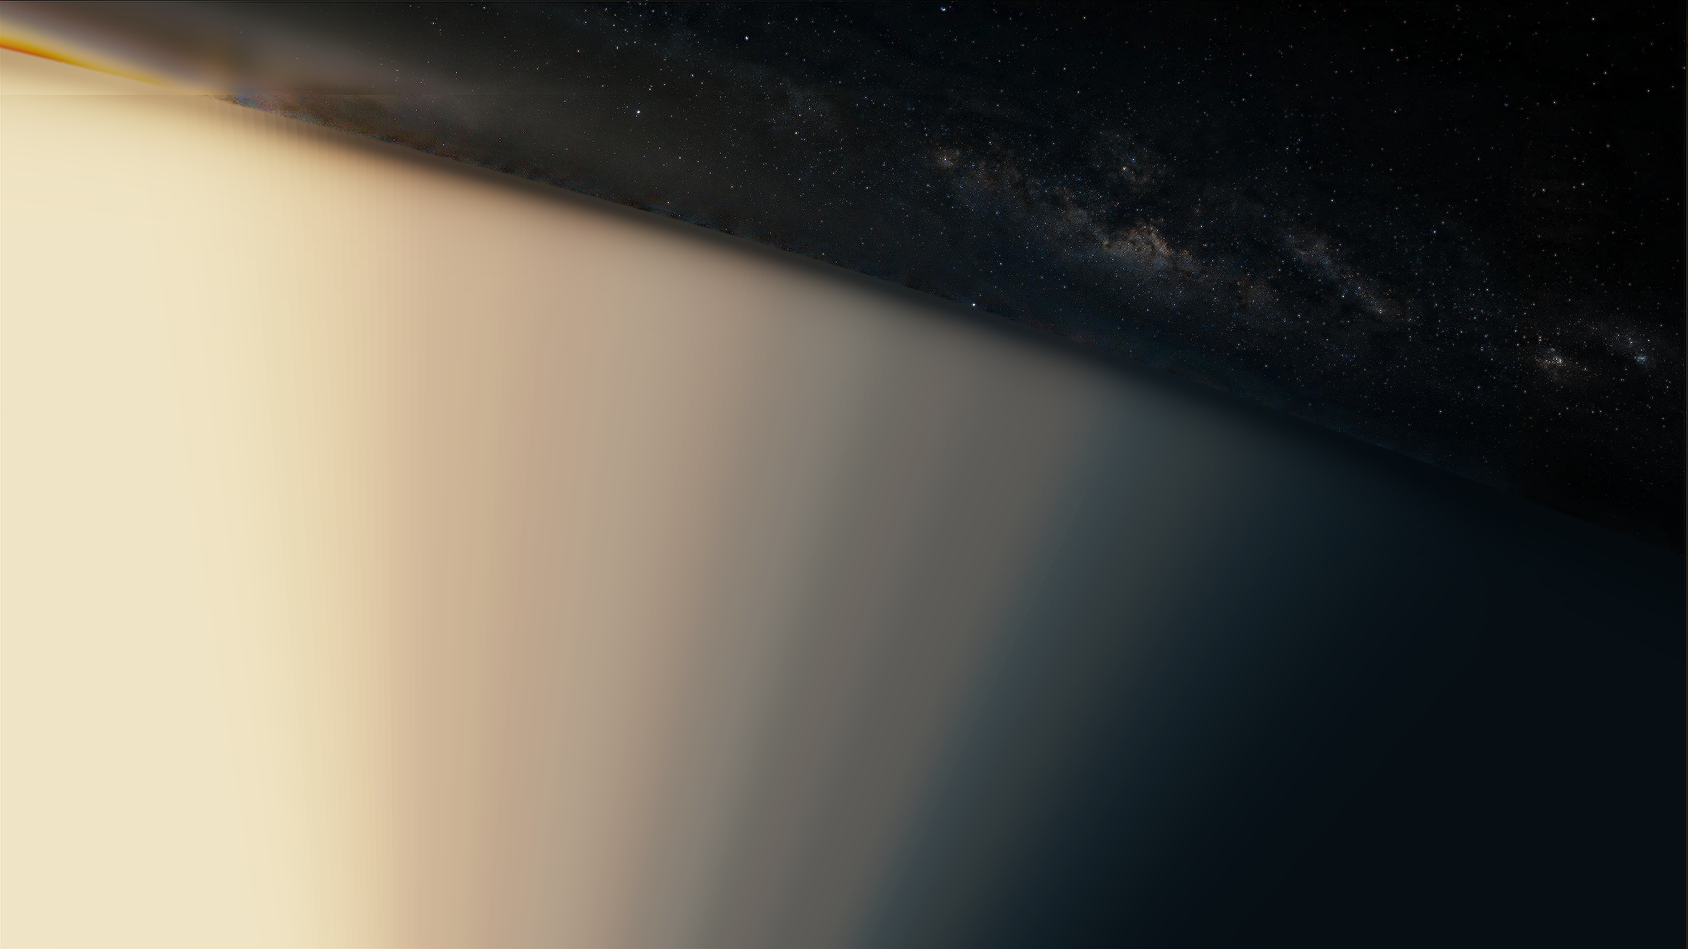
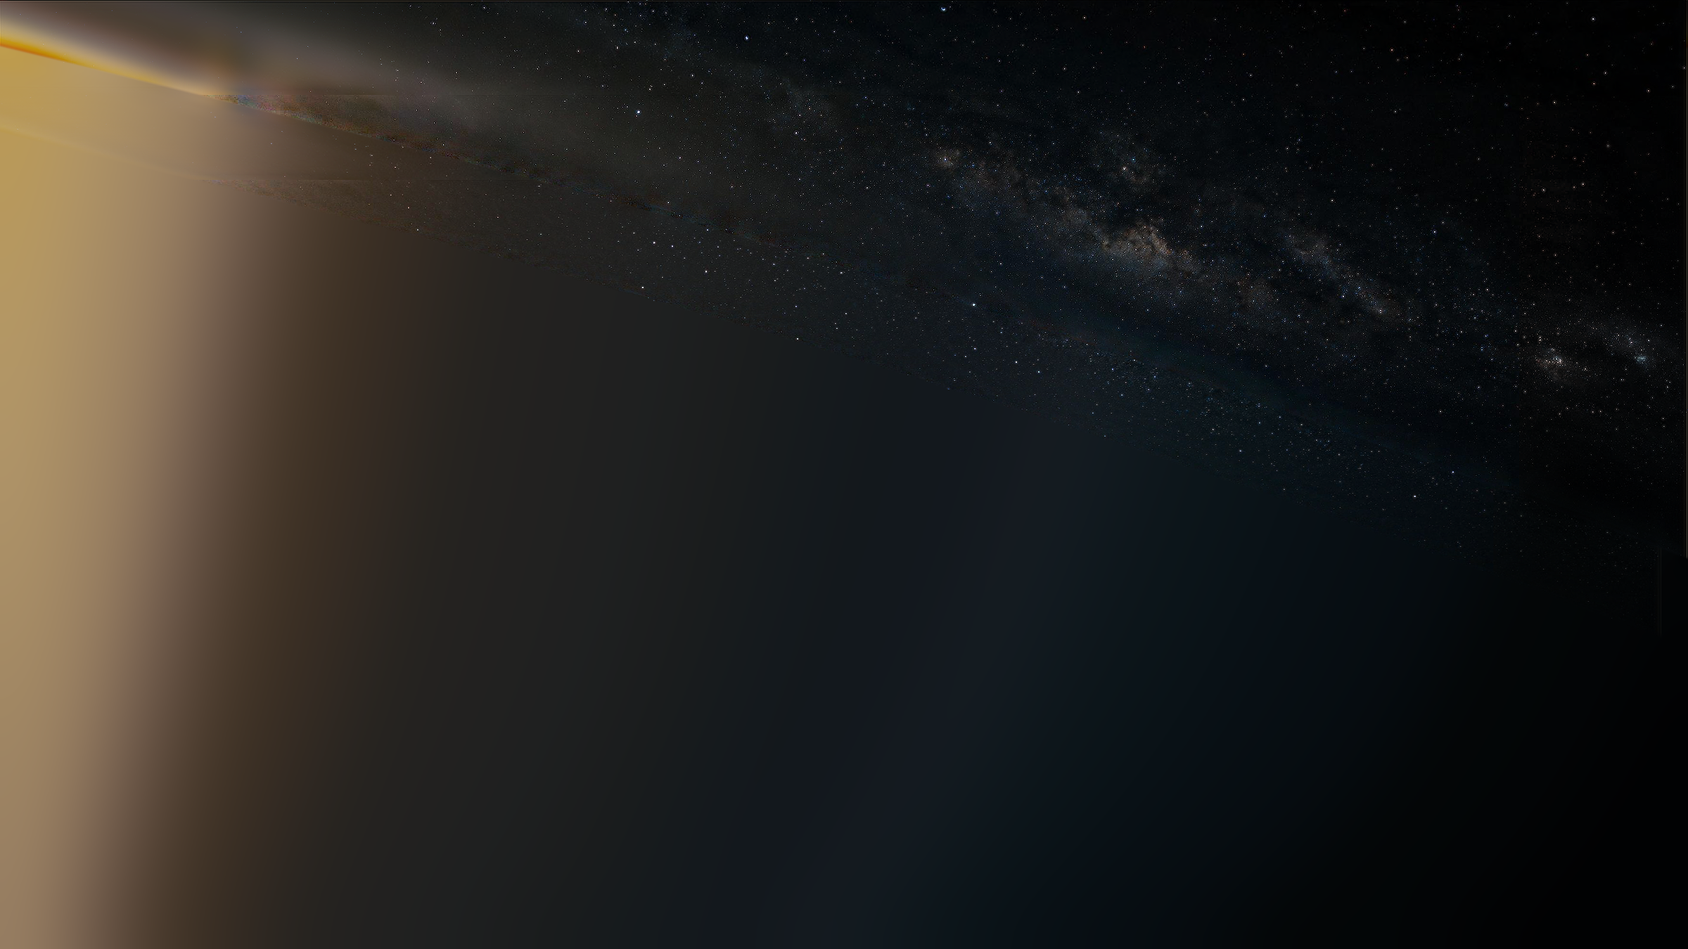
jupiter: no haze under the horizon of the sky plate, the rise's pace set again
The fill under the horizon of sky-terrain.webp is gone (sky/floor.py, recipe step 13): the plate's own level and its own stars stand there until the film's sky has taken over through the floor. handover.rise.liftPower 0.55 (the path is green), scene.sky and scene.skyTurn [0.14, 0.41] after sky/window.ts on the new path.

diff --git a/assets-src/jupiter/sky/floor.py b/assets-src/jupiter/sky/floor.py
@@ -1,0 +1,106 @@
+import json, os, sys
+import numpy as np
+from PIL import Image
+from scipy import ndimage as ndi
+
+HERE = os.path.dirname(os.path.abspath(__file__))
+sys.path.insert(0, os.path.join(HERE, '..', 'deck'))
+import geom
+from patch import film, unfilm, to_linear, to_srgb
+
+ROOT = os.path.join(HERE, '..', '..', '..')
+MARGIN = json.load(open(os.path.join(ROOT, 'src', 'stops', 'jupiter', 'sky.json')))['terrain']['margin']
+FOOT_DEG = 0.9
+EDGE_DEG = (0.3, 0.5)
+STARS_SHIFT_DEG = 6.0
+STARS_FROM_DEG = (0.6, 0.9)
+STARS_EDGE_PX = 8.0
+SMOOTH_PX = 6.0
+STAR_PX = 9
+SPREAD = ((0.0, 0.0), (0.3, 12.0), (0.8, 30.0), (1.6, 60.0))
+
+
+def elevation(w, h):
+    kx = geom.W0 * (1 + 2 * MARGIN) / w
+    ky = geom.H0 * (1 + 2 * MARGIN) / h
+    ys, xs = np.mgrid[0:h, 0:w]
+    ix = (xs + 0.5) * kx - 0.5 - geom.W0 * MARGIN
+    iy = (ys + 0.5) * ky - 0.5 - geom.H0 * MARGIN
+    d = geom.rays(ix + geom.OX, iy + geom.OY)
+    up = -geom.NADIR
+    dip = np.degrees(np.arccos(geom.R / (geom.R + 1)))
+    return np.degrees(np.arcsin(np.clip(d @ up, -1, 1))) + dip
+
+
+def at(a, y, x):
+    return ndi.map_coordinates(a, [y, x], order=1, mode='nearest')
+
+
+def repaint(path):
+    lin = unfilm(to_linear(np.asarray(Image.open(path).convert('RGB')).astype(np.float64) / 255))
+    h, w = lin.shape[:2]
+    scale = w / 2400
+    el = elevation(w, h)
+    gy, gx = np.gradient(el)
+    g2 = np.maximum(gx * gx + gy * gy, 1e-12)
+    above = (el >= EDGE_DEG[1]).astype(np.float64)
+    cover = np.maximum(ndi.gaussian_filter(above, SMOOTH_PX * scale), 1e-6)
+    size = max(3, int(round(STAR_PX * scale)) | 1)
+    smooth = np.stack([ndi.gaussian_filter(ndi.median_filter(lin[..., c], size) * above, SMOOTH_PX * scale) / cover for c in range(3)], -1)
+    ys, xs = np.mgrid[0:h, 0:w].astype(np.float64)
+    under = el < EDGE_DEG[1]
+    fy, fx = ys[under], xs[under]
+    for _ in range(4):
+        e = at(el, fy, fx)
+        k = (FOOT_DEG - e) / at(g2, fy, fx)
+        fy = np.clip(fy + k * at(gy, fy, fx), 0, h - 1)
+        fx = np.clip(fx + k * at(gx, fy, fx), 0, w - 1)
+    carried = np.zeros_like(lin)
+    for c in range(3):
+        carried[..., c][under] = at(smooth[..., c], fy, fx)
+    below = under.astype(np.float64)
+    levels = []
+    for _, px in SPREAD:
+        if px <= 0:
+            levels.append(carried)
+            continue
+        share = np.maximum(ndi.gaussian_filter(below, px * scale), 1e-6)
+        levels.append(np.stack([ndi.gaussian_filter(carried[..., c], px * scale) / share for c in range(3)], -1))
+    depth = EDGE_DEG[1] - el
+    out = lin.copy()
+    field = levels[-1].copy()
+    for i in range(len(SPREAD) - 1):
+        d0, d1 = SPREAD[i][0], SPREAD[i + 1][0]
+        t = np.clip((depth - d0) / (d1 - d0), 0, 1)[..., None]
+        t = t * t * (3 - 2 * t)
+        inside = ((depth >= d0) & (depth < d1))[..., None]
+        field = np.where(inside, levels[i] * (1 - t) + levels[i + 1] * t, field)
+    at_horizon = np.abs(el) < 0.5
+    n = np.array([gy[at_horizon].mean(), gx[at_horizon].mean()])
+    per_deg = 1 / np.hypot(n[0], n[1])
+    n = n * per_deg
+    sy, sx = ys + STARS_SHIFT_DEG * per_deg * n[0], xs + STARS_SHIFT_DEG * per_deg * n[1]
+    border = np.minimum(np.minimum(sy, h - 1 - sy), np.minimum(sx, w - 1 - sx)) / (STARS_EDGE_PX * scale)
+    held = np.clip(border, 0, 1) * np.clip((at(el, sy, sx) - STARS_FROM_DEG[0]) / (STARS_FROM_DEG[1] - STARS_FROM_DEG[0]), 0, 1)
+    stars = (lin - smooth) * (el >= STARS_FROM_DEG[0])[..., None]
+    field = field + np.stack([at(stars[..., c], sy, sx) for c in range(3)], -1) * held[..., None]
+    keep = np.clip((el - EDGE_DEG[0]) / (EDGE_DEG[1] - EDGE_DEG[0]), 0, 1)
+    keep = (keep * keep * (3 - 2 * keep))[..., None]
+    out[under] = np.maximum(field * (1 - keep) + lin * keep, 0)[under]
+    before = np.asarray(Image.open(path).convert('RGB'))
+    after = (to_srgb(film(out)) * 255 + 0.5).astype(np.uint8)
+    after[~under] = before[~under]
+    Image.fromarray(after).save(path, lossless=True, quality=90, method=6)
+    lum = lambda a: unfilm(to_linear(a.astype(np.float64) / 255)) @ np.array([0.2126, 0.7152, 0.0722])
+    cols = np.linspace(0, w, 7).astype(int)
+    for name, a in (('before', before), ('after', after)):
+        for lo, hi in ((-5, -4), (-2, -1), (-0.6, -0.1), (0.0, 0.3), (0.3, 0.5), (0.5, 1.0)):
+            band = (el >= lo) & (el < hi)
+            row = [np.median(lum(a[:, cols[i]:cols[i + 1]])[band[:, cols[i]:cols[i + 1]]]) * 1000 for i in range(6)]
+            print(os.path.basename(os.path.dirname(path)), name, 'elevation', lo, 'to', hi, 'median luminance x1000 by sixths:', ' '.join('%.1f' % v for v in row))
+    print(path, w, h, 'pixels under the edge', int(under.sum()), 'changed above it', int((after[~under] != before[~under]).sum()))
+
+
+if __name__ == '__main__':
+    for p in sys.argv[1:]:
+        repaint(p)

diff --git a/assets-src/jupiter/NOTES-CODE.md b/assets-src/jupiter/NOTES-CODE.md
@@ -1861,3 +1861,29 @@ MAIL 807 from the Builder (/root) to jupiter_coder, "the ruling on your answer t
 - The cure as designed (after naming; it changes the sky of 3150 a little, so the pair goes as a picture): (a) the left glare above the horizon is air: it leaves the plate (plate minus a model over the place along the horizon and the tangent height) and the deck's limb table carries it (`deck.json` `limb`, `top` from 1.4 to about 2.4, measured again by `python3 assets-src/jupiter/deck/limb.py clear`, build, a draft still of 3150, `limb.py RENDER.png`); (b) real sky is painted under the plate's horizon for at least 25 degrees (by code: the level at the horizon carried down plus the fine part, stars and dust, of the plate's own sky from at least 600 px away, no mirror), and `skyFloor` goes to false for the dive and the rise, so one sky reaches the limb at every height and the air over the limb is the limb's own. Nothing of it is in the three folders yet; work files in `work/r8/sky/`.
 - Decision standing: the chain is not killed; the commit is named as it stands when the chain ends (about 03:45, 04:30 at the latest) with every red named; the cures come after naming, in this order: the floating band and limb zone, the rise's lower left repaint, the rings, then the flight, the match, the native size.
 - Looks pushed 01:57 (the four levels at the place, the tool's dive picture, the band frame by frame, the 3150 pair last). Next by 02:27.
+
+## 03:25 UTC (25 Nov): chain killed, the deadline moved, MAIL 853 and 861, the rise's 0.74 is the reader's carry, both patches in, path green, the plate's fill goes (read this first after a compaction)
+
+- 02:28: the proof chain q7 was killed after the rise's pictures came red too. Its lines on commit `220328cc` (old reader), word for word: "dive: the pattern of the picture changes in place by 1.23 from frame 3031 to 8 film frames later, limit 0.45 (26 frames over it, first 3028)", "rise: the pattern of the picture changes in place by 0.74 from frame 3272 + 1/2 to 8 film frames later, limit 0.45 (18 frames over it, first 3267)", path dive "No number of the path is over its limit.", path rise "rise: whole frames, rate: changes by 0.097 of the mean over one film frame in 7 steps from frame 3243 to 3249, most at 3245, limit 0.08", "rise: rate 2, rate: changes by 0.098 of the mean over one film frame in 14 steps from frame 3243 to 3249 + 1/2, most at 3244, limit 0.08", "rise: rate 2, speed: climbs again by 0.031 of the mean (over 8 points) after its largest value (frame 3280 + 1/2), up to frame 3306, limit 0.03".
+- MAIL 853 (02:30), binding: "1. 08:00 UTC is accepted for the NAMED commit, with the looks every 30 minutes as you keep them. The round starts on that commit as it stands. 2. By 03:30, short: the cause of (3), the rise's 0.74 from 3272 + 1/2, by term and frame. 3. On (2): the band is cured where it is made. A haze fill under the plate's own horizon does not belong in the plate: what stands under the horizon of the surface view's sky is the film's sky, by the frame law. No cover and no exposure change to hide it. 4. On (1): when the rise's pace is set again for the place on the oval, state the three path lines of your own run in the NAMED mail as printed. 5. Slices: if a proof on your own machine costs more than 40 minutes, send me a pushed sha and the frame spans (at most six at a time, each at most 40 capture frames); my machines draw them at rate 2 with the reader and you get json, md and sheets back."
+- MAIL 861 (02:57), binding: "1. Attached: range-jupiter.patch (two lines in globe.ts and io.ts: the range handed to the reader lies on the traced unit sphere and not on the mesh that is 1 plus the rim larger ...) and bodies-jupiter.patch (Io as a further body of the record). Apply both in the commit you name at 08:00, and say by hash that the draft frames 2895, 2997, 3150 and 3296 do not move. 2. MEASURED by my machine on main's Jupiter with the new reader (pv2 60): dive part 4 red, pattern 0.49 from 3044 + 1/2 to 8 film frames later. 3. Still owed by 03:30 UTC, short: the cause of the rise's 0.74 from 3272 + 1/2, by term and frame."
+- The answer of 03:00 to /root (sent with `work/r8/rise-cause-3272h.png`): the rise's 0.74 is no term of the picture, it is the carry of the reader. On the same draft frames 3272 + 1/2 and 3280 + 1/2 the tool's own pattern through its chain of 16 flows reads 0.741 (lower left 1.006); through the true map (the director's cameras through the deck's sphere at chart height 0, `work/r8/truemap.py`) it reads 0.049 (lower left 0.080, largest 0.114). The chain is off the true map by 0.90 quarter px in the median and 2.08 at the 95th percentile. True map against chain at other frames: 3267 0.071 / 0.617, 3269 0.051 / 0.656, 3272 0.045 / 0.642, 3274 0.312 / 0.645, 3275 + 1/2 0.235 / 0.486. By term through the same chain (as drawn 0.642): made detail off 0.782, relief flat 0.775, deck off 0.883, so no term of mine lowers it (experiments E1 to E3, sources restored). Not settled: the true map at 3274 has its largest 0.533 at pixel 1916, 140 (far ground under the limb); a sphere 0.45 units lower or higher reads 0.449 and 0.510 at 3272; nothing of this is run with the new reader yet.
+- Tools of that work in `/home/user/workspace/work/r8/`: `pattv.py` (the tool's pattern through the flow chain), `pairv.py`, `truemap.py FA FB [heights]`, `cams.ts F0 F1 STEP OUT.json` (run from the repo; chart eye, lens and height by frame), `keys.ts`.
+- Main fetched with depth 1: `76163c29fe0be0f5f7231ec325a6c23b623492e1`; merged by hand as `2f9ed88c49ccb4417409cd5eda263e9d849e9101` on `220328cc`. Main touched nothing in my three folders; outside them 44 files (the new reader: `tools/img/range.py`, `tools/smooth/pose.ts`, `tools/img/smooth.py`, `src/diagnostics/diag.ts` with the diag view `range`, `src/bodies/*`, tests). So every smooth frame drawn before is stale.
[1 lines of base64/hex data omitted]
+- CORRECTION of older entries: the deck's sphere is `place.solved.radiusUnits` 331.946 chart units (1 unit = 0.1726 degrees on the globe), not 251.5.
+- The rise's pace set again (MAIL 853 point 4): `place.json` `handover.rise.liftPower` 1.25 to 0.55. Scan with `/tmp/pathscan.py` (rate step whole frames / rate 2): 1.25 0.097 / 0.098 and the speed's climb 0.031; 1.1 0.092 / 0.093; 1.0 0.088 / 0.090; 0.85 0.083 / 0.084; 0.75 0.080 / 0.081; 0.65 0.076 / 0.077 (first green); 0.55 0.073 / 0.074, speed step 0.069 / 0.068, speed fall 0.001 / 0.004; 0.45 0.069 / 0.070; 0.35 0.066 / 0.066, speed step 0.072 / 0.071. Changing `pace.corners.rise`, `pace.corner` or `pace.rise` at 0.85 did not help (0.082 to 0.086). With 0.55: `npm run -s smooth -- --stop jupiter --only path` prints "smooth jupiter: green."; `tools/seam.ts --kind rise`: lowest 0.948 at 3224, at least 0.87, GREEN; rest: lowest 6.54 at 3317 + 1/2, 0.207 of the slower end.
+- `sky/window.ts` run again on the new path: rise "no pixel of the frame is sky from 0.0430 radii (frame 3269.750) to 0.4173 radii (frame 3285.750)", dive "no pixel of the frame is sky from 0.4429 radii (frame 3006.750) to 0.0893 radii (frame 3019.250)". The old `scene.skyTurn` [0.14, 0.5] and `scene.sky` [0.14, 0.42] reached over the upper end of both windows (2 samples with sky in the frame carried a part of the turn, in the dive since before). Both are now [0.14, 0.41]: rise "inside, the turn is not seen", dive "0 samples with sky in the frame carry a part of the turn".
+- The floating band, measured again (`work/r8/skyprof.py`): the plate's own horizon is the fit camera's (height 1 unit, dip 4.44 degrees); T stands at 1.307 units (dip 5.11 degrees), so the engine's floor (0.25 degrees margin, 4 degrees feather, shared numbers) keeps the plate whole to 0.92 degrees under the plate's horizon and lets it go by 4.92 degrees under it. The plate held there the haze fill: median luminance times 1000 in six columns, 1 to 2 degrees under 460, 166, 91, 47, 19, 9; 4 to 5 degrees under 850, 354, 196, 86, 28, 11; against 212, 38, 24, 19, 14, 6 at 0.4 to 1 degree above. That is the band. Camera heights of the dive (chart units, `work/r8/cams-dive.json`): 3021 23.1, 3028 9.6, 3031 6.9, 3036 4.2, 3040 3.0, 3046 2.0, 3052 1.5, 3058 1.31.
+- The cure, by the ruling of MAIL 853 point 3: the fill leaves the plate. New tool `assets-src/jupiter/sky/floor.py` (by code, no generation): under the plate's horizon it writes the plate's own smooth sky level, read 0.7 degrees above the horizon at the foot of each pixel's normal to the horizon (median of 9 px, then 6 px gaussian inside the sky only) and spread along the horizon with depth (12, 30, 60 px at 0.3, 0.8, 1.6 degrees), so nothing under the horizon is brighter than the sky above it and the engine's floor exchanges it for the film's sky. Above 0.24 degrees no pixel changes (the zone that frame 3150 can see through the limb's cover begins at 0.33 degrees). The plate's own Milky Way ends at its horizon; that join of two skies stays and is named.
+- Disk: `out/work/jupiter/gen-23nov/*.npy` (897 MB) deleted for space; 4.9 GB free.
+
+## 03:45 UTC (25 Nov): the band after the fill left, the stars carried under the plate's horizon, what the two skies still show (read this first after a compaction)
+
+- Stills of the dive with the first repaint (set f1, draft, `out/work/jupiter/frames/f1/`): the bright band was gone, but a strip without stars stood between the limb and the plate's star field, with a hard line at the plate's horizon where the stars began (`work/r8/f1/dive-ur-b.jpg`, lifted three times `dive-ur-b-lift.jpg`; the rise at 3256 the same). So a level alone does not cure it.
+- `sky/floor.py` now also carries the plate's own stars under its horizon (the fine part of the sky from 6 degrees higher along the normal, a shift, no mirror) and blends between 0.3 and 0.5 degrees above the horizon, which takes the approved image's rim light out of the plate too. Constants: `FOOT_DEG` 0.9, `EDGE_DEG` (0.3, 0.5), `STARS_SHIFT_DEG` 6, `STARS_FROM_DEG` (0.6, 0.9), `STARS_EDGE_PX` 8, `SMOOTH_PX` 6, `STAR_PX` 9, `SPREAD` as before. Run on the old plates (kept in `/tmp/skyplate/`), result in `public/assets/jupiter/{full,web}/sky-terrain.webp`; a second run on its own output gives the same file. Median luminance times 1000 by sixths after it: 4 to 5 degrees under 182, 36, 23, 19, 13, 5; 0 to 0.3 above 191, 36, 24, 19, 13, 6; 0.5 to 1 above 213, 37, 24, 19, 14, 6 (unchanged); pixels changed from 0.5 degrees up: 0 in both sets.
+- Stills with it (set f2, `out/work/jupiter/frames/f2/`; pairs f1 against f2 with the lower row lifted three times: `work/r8/f1/f2-3031.png`, `f2-3037.png`, `f2-3043.png`): no strip without stars and no line at 3031, 3037, 3043; the star field runs down to the limb. Column 1512 at 3037, level by rows above the limb (200, 160, 120, 90, 70, 50, 35, 25, 15): 21.3, 17.5, 21.7, 22.7, 22.4, 22.3, 21.1, 17.0, 18.5.
[1 lines of base64/hex data omitted]
+- What the stills show and no repaint of the plate cures: two skies. Under the plate's horizon the film's sky stands (ruling of MAIL 853 point 3), and it has an orange Milky Way cloud just there (3025 to 3040 at the right, near the limb), while the plate's sky above is about 15 levels lighter with a blue white Milky Way. As the camera sinks the limb comes up to the plate's horizon and the film's sky between them goes: at 3028 the whole sky in the frame is the film's, from 3031 the plate's foot stands in the upper right, by 3043 the plate's sky reaches the limb. In the rise the same in reverse (3256 the plate's, 3262 the film's with the orange cloud). It is an exchange by angle (the elevation over the surface view's horizon), soft over 4 degrees, in view. One sky down to the limb at every height would need the plate's sky continued about 19 degrees under its horizon and the floor off for this stop, which the ruling excludes; named in the NAMED mail, not done.
+- The rise with `liftPower` 0.55 seen on stills 3241 to 3274 (`work/r8/f1/rise-a.jpg`, `rise-b.jpg`): the known reds stand as before (lower left 3250 to 3257, the dark blue smear right of the storm from 3262, the deck's ground against the hero's oval at 3268 and 3274). The plate's right margin (columns from 2160 of 2400) is darker than the image's edge (level 5.0 at the edge, 3.7 and 2.3 in the margin); at 3244 to 3250 it reads as a darker right side without a hard edge. Not touched.
+- Proof chain for the named commit: `/tmp/q8.sh`, log `work/r9/q8.log`, results in `/home/user/workspace/work/r9/` (build, finals n3-2895 and n3-3150, drafts of the four judged frames in `out/work/jupiter/h5/`, d253 stills in `out/work/jupiter/d253c/`, smooth pictures dive and rise, path, parity, vitest, handover, gate). Delete `out/work/smooth/jupiter` (2.1 GB of stale frames) before it starts.

diff --git a/assets-src/jupiter/RECIPE.md b/assets-src/jupiter/RECIPE.md
@@ -97,6 +97,7 @@ Files: `public/assets/jupiter/<set>/deck-core.jpg` (full 5632 x 3168, web 2816 x
    - Fit, `tiers.py place NAME TAKE` (as `tiles.py place`: the take at window size, its shift against the input by phase correlation taken out, a per channel fit on the kept part): a1 shift (0.02, 0.03) px, phase correlation 1.155, mean absolute difference on the kept part 2.57 of 255 (p95 6.76); a2 take 2 (0.03, 0.03), 1.113, 2.60 (7.00); b (0.05, 0.03), 1.017, 2.93 (7.33). Rejected takes: a2 take 1 (0.02, 0.03), 1.113, 2.68 (7.22); a1 take 2 (0.04, 0.04), 1.161, 4.04 (9.85).
    - Assembly, `tiers.py under`: the plate starts as the canvas with the 2x core, a1 and a2 replace their windows (300 px cross fade where they overlap), b at twice its size replaces everything below the `seam` row 2480. `tiers.py ship` writes both sets.
    - Checks of this step, on the tree that holds main 0622510 (engine hash 7cd5ba493f97ac9f, stop hash c2401919b02286d4). Layers views at the draft tier (red = the same picture drawn twice) with the kept plates: red after a 3 x 3 erosion 0 at 3060, 3108, 3204 and 3239 (raw 161, 39, 0, 0 px, all one pixel wide along the contour). Texels views: no soft pixel added (3253 0.95 percent and 3239 0.05 percent, as before the layer). Review tier: the twelve frames of the terrain sheet looked at beside the frames of before, no doubled edge, no hole, no stretched edge. Judged frame 3150 at the final tier: 8.8 percent of the pixels differ from the frame of before, mean 0.085 of 255, all on the lifted terraces; mean absolute difference to the approved image 4.191 of 255 against 4.190 before (`out/work/jupiter/fg/own.py`). Finals 2895, 2997 and 3296 keep their bytes. Draft 3239 rendered on three fresh pages gives the same bytes. Full measure: G13 0 of 463 frames soft, worst 3253 0.95 percent (as before); G5 2895 0.352, 2997 0.460, 3150 0.754, 3296 0.280 (as before); G17 2895 median 1.039 p25 0.949 (as before), 3150 median 1.023 p25 0.963 against 1.032 and 0.967 before the layer. Texture memory (G15): full 852 MB, web 237 MB (before 756 and 199). Disk: full 46,788,410 bytes, web 13,623,293 bytes. The same checks again on the tree that holds main 2621f00 (engine batch 19, engine hash 7553966a0ffa4014, stop hash c2401919b02286d4): sweep at every eighth frame of 3028 to 3236 and at 3239, 3246, 3254, 3262 with the kept plates, 31 frames in 2 fresh sessions, one hash per frame; layers views red after a 3 x 3 erosion 0 at every eighth frame 3036 to 3262 and at 3239 and 3246, 19 px at 3028 (x 0 to 5, y 625 to 630, the left frame edge under the dive cover), raw red at most 180 px (3052), one pixel wide, 0 from 3148 on; all 31 frames looked at. The twelve review frames of the terrain sheet and the finals 2895, 2997 and 3150 are the same bytes as on main 0622510; final 3296 is new by the flight sky of batch 19. Finals 2895 and 2997 keep the bytes they had before the layer; 3296 on main 0622510 kept its bytes across the layer too.
+13. No haze under the plate's horizon (review of 25 Nov: a soft grey band floated over the limb in the dive and the rise). Step 4 left under the horizon of `sky-terrain.webp` a haze fill that grew downward (scene linear times 1000 in six columns of the plate, 4 to 5 degrees under the horizon: 850, 354, 196, 86, 28, 11, against 212, 38, 24, 19, 14, 6 at 0.4 to 1 degree above it). The plate's horizon is the fit camera's (height 1 unit, dip 4.44 degrees); the seam stands at 1.307 units, so the engine's floor (`config/showcase.json` `handover.skyFloor`) keeps the plate whole to 0.92 degrees under its own horizon and lets it go by 4.92 degrees under it, and from a higher camera that fill stood in the sky above the limb. `PYTHONPATH=assets-src/jupiter/sky python3 assets-src/jupiter/sky/floor.py public/assets/jupiter/full/sky-terrain.webp public/assets/jupiter/web/sky-terrain.webp` (by code, no generation, run on the two shipped files since the masters are gone; a second run on its own output gives the same file, since it reads only what lies above the edge) takes the fill out. Under the horizon it writes two things. First the plate's own smooth sky level: read 0.9 degrees above the horizon at the foot of each pixel's normal to the horizon (`FOOT_DEG`; median of 9 px, then a 6 px Gaussian inside the sky only, sizes at 2400 px width) and spread along the horizon with the depth under it (`SPREAD`: 12, 30 and 60 px at 0.3, 0.8 and 1.6 degrees). Second the plate's own stars: the fine part of the sky (the plate less that smooth level) from 6 degrees higher along the normal (`STARS_SHIFT_DEG`; a shift, no mirror; only where the source lies 0.6 to 0.9 degrees or more above the horizon, `STARS_FROM_DEG`), so the star field does not end in a line at the plate's horizon and the strip the floor lets through is sky with stars until the film's sky has taken over. The new pixels are blended into the old between 0.3 and 0.5 degrees above the horizon (`EDGE_DEG`), which also takes the rim light of the approved image out of the plate (the rim belongs to the deck's limb, not to a picture at infinity). No pixel from 0.5 degrees up changes (the tool prints the count, 0 for both sets). Frame 3150 sees the plate from 0.33 degrees up through the limb's cover: its draft changes in 461 pixels, by 4 levels at most (6 pixels by more than 1). After it, by the same columns: 182, 36, 23, 19, 13, 5 at 4 to 5 degrees under the horizon, 191, 36, 24, 19, 13, 6 at 0 to 0.3 degrees above it. Measured in the dive at column 1512 (level by rows above the limb, frame 3037, before and after): 35.3, 35.1, 32.0, 28.7 at 50, 35, 25, 15 rows against 22.3, 21.1, 17.0, 18.5, with 21 to 23 in the sky above. What stays: under the plate's horizon the film's sky takes over through the floor, and the two skies are not one (the plate's is about 15 levels lighter and has its own Milky Way), so the foot of the plate's sky is a soft step that stands above the limb by the dip of the camera's height less 4.44 degrees.
 
 Checks: judged frame 3150 beside the approved image (`npm run compare -- --stop jupiter --view terrain`), the canvas at 1.8 times the exposure shows no step at the image edges, texels view of frame 3239 at least 1.36 texels per pixel.
 
